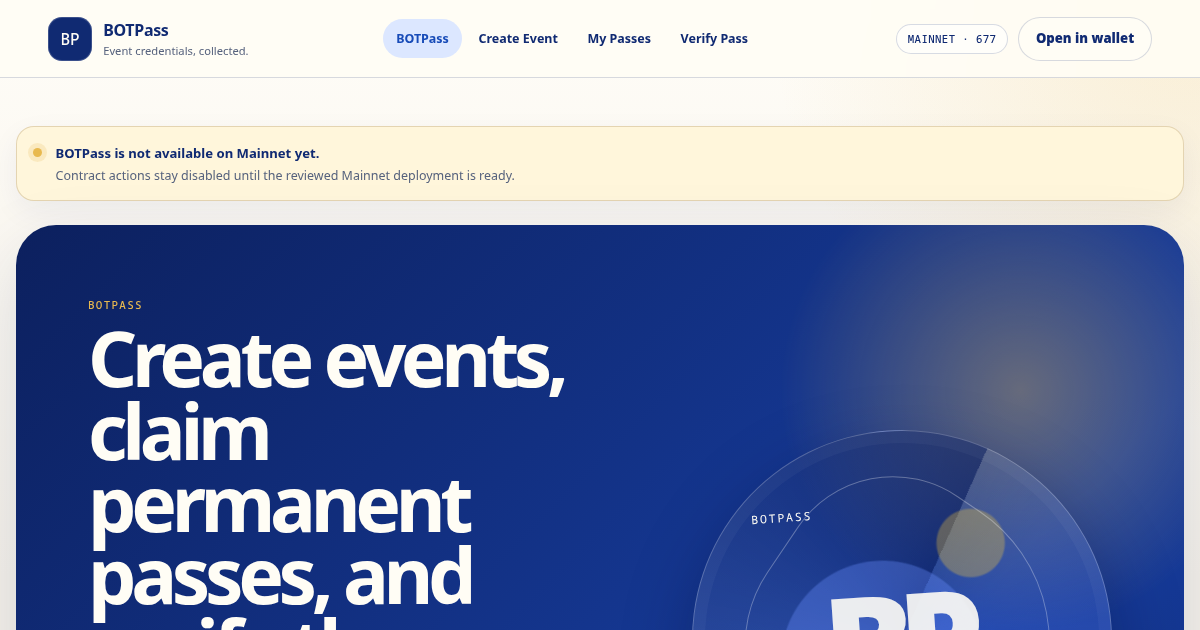
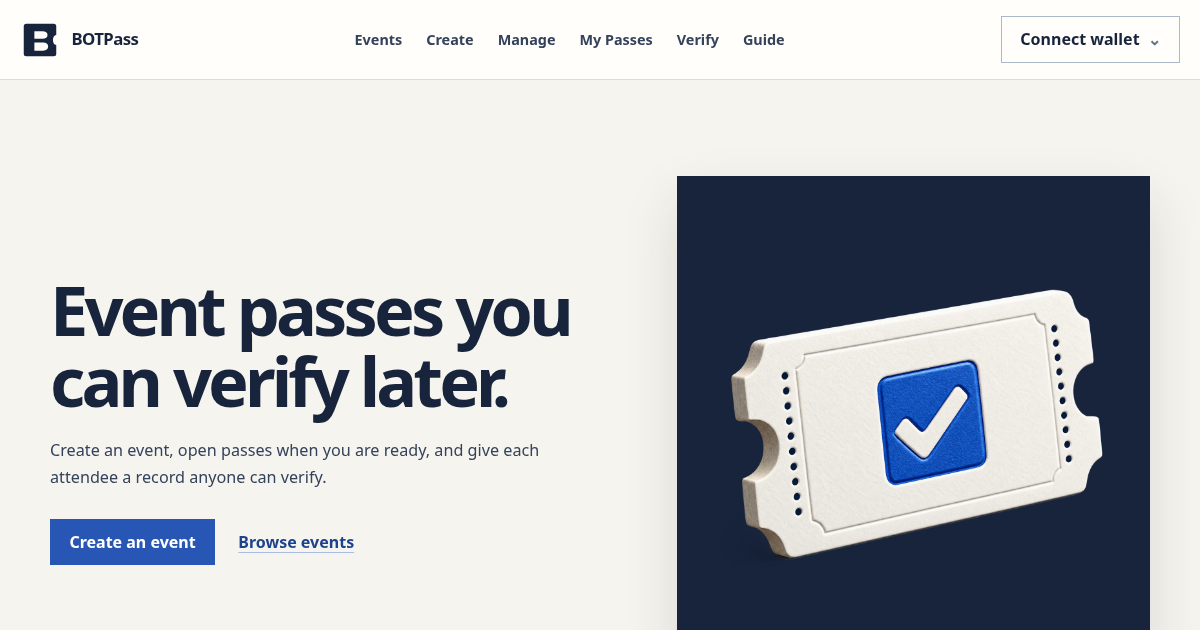
feat: add Lastlight and refresh project covers

diff --git a/tests/e2e/routes.spec.ts b/tests/e2e/routes.spec.ts
@@ -8,6 +8,7 @@ const htmlRoutes = [
   "/projects/botpass",
   "/projects/cekdulu",
   "/projects/eling-bot",
+  "/projects/lastlight",
   "/projects/portfolio-website",
 ];
 
